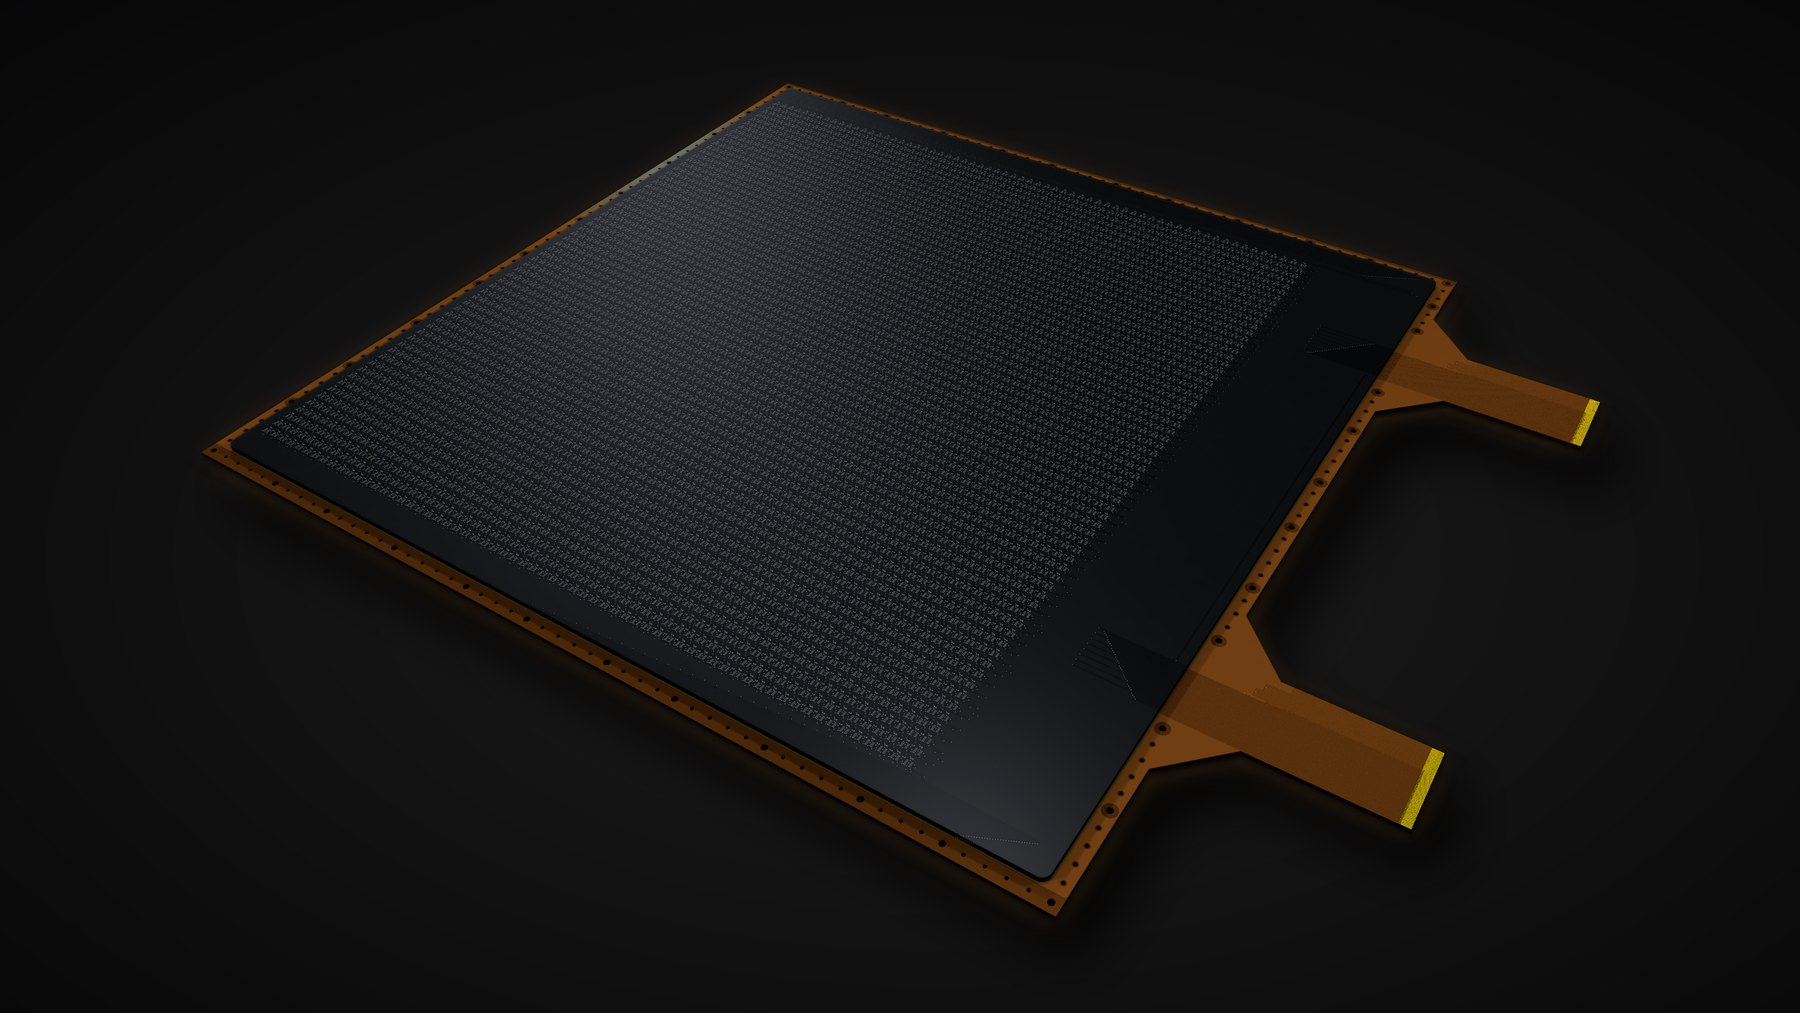
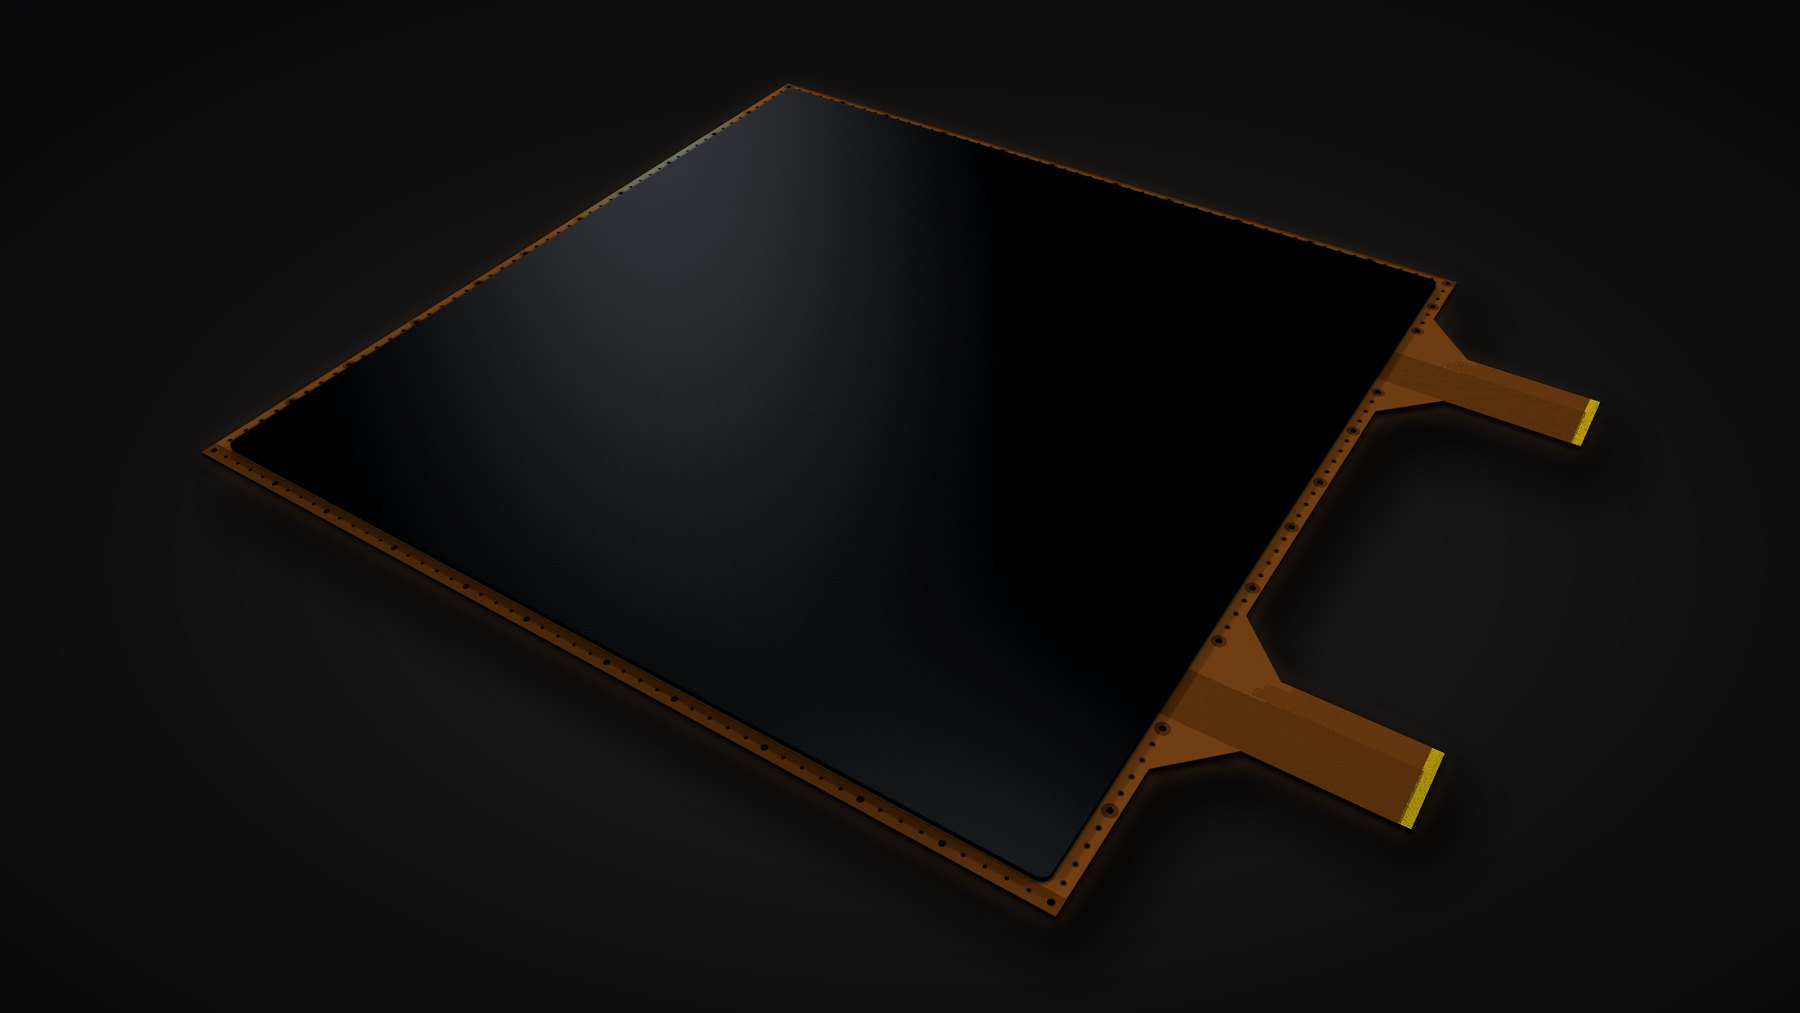
64x64 card: opaque silicone, no 'next up/in design', rainbow Contact us button
Claude-Session: https://claude.ai/code/session_01XzxWyJcAm5T9ntiKTcLrUh

Changed region(s): [[0.1556, 0.1224, 0.7156, 0.8569]]

diff --git a/index.html b/index.html
@@ -317,14 +317,14 @@
     </dialog>
     <div class="toast" id="toast" role="status" aria-live="polite"></div>
 
-    <div class="mega-card reveal reveal-up" aria-label="Next LuxTac board">
+    <div class="mega-card reveal reveal-up" aria-label="64x64 LuxTac board">
       <div class="mega-media">
-        <img src="assets/boards/board-64x64-hero.jpg" alt="Render of the 64&times;64 LuxTac board under its black silicone skin: 4,096 optical taxels on a single board" loading="lazy" draggable="false">
+        <img src="assets/boards/board-64x64-hero.jpg" alt="Render of the 64&times;64 LuxTac board under its black silicone skin" loading="lazy" draggable="false">
       </div>
       <div class="mega-text">
-        <p class="gen-eyebrow">Next up</p>
         <h3>64&times;64 &middot; 4,096 taxels</h3>
-        <p>The same taxel cell, tiled into a single board with 4,096 optical taxels. In design.</p>
+        <p>4,096 optical taxels on a single board, under one black silicone skin.</p>
+        <span class="gen-btn primary mega-btn" role="button" aria-disabled="true">Contact us <small>for the design files</small></span>
       </div>
     </div>
 

diff --git a/assets/style.css b/assets/style.css
@@ -1045,3 +1045,4 @@ a.link-btn:hover { background: #fff; }
   .mega-media::after { display: none; }
   .mega-text h3 { font-size: 26px; }
 }
+.mega-text .mega-btn { display: inline-flex; margin-top: 14px; width: auto; gap: 14px; }
